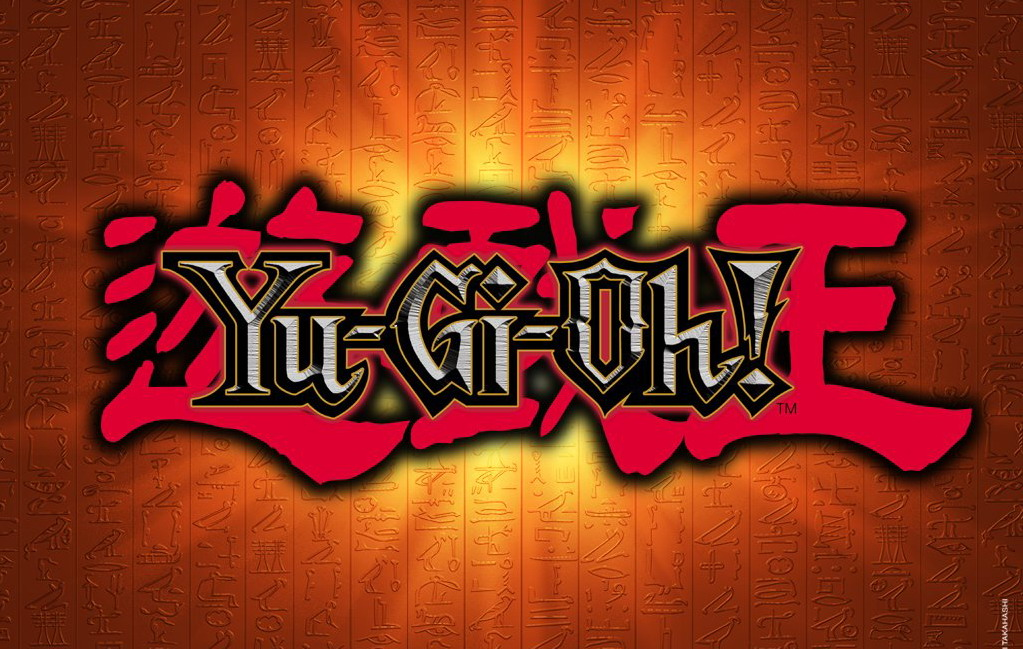
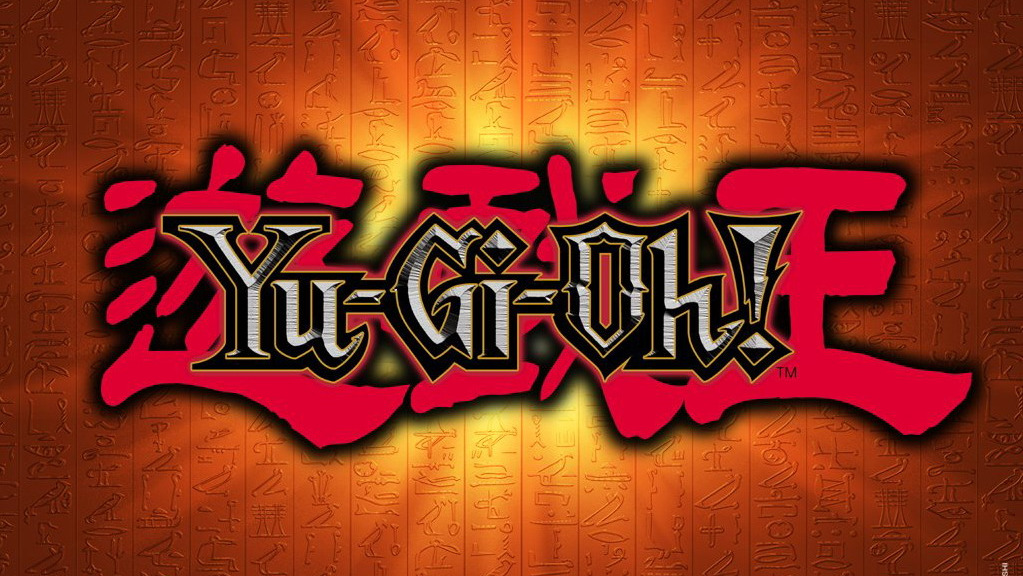
feat: Create game setting window and it's graphical elements

diff --git a/Yugioh/sources/mainmenu.cpp b/Yugioh/sources/mainmenu.cpp
@@ -8,7 +8,8 @@ MainMenu::MainMenu(QWidget *parent) :
     ui(new Ui::MainMenu)
 {
     ui->setupUi(this);
-    QPixmap bkgnd("/home/darija/Desktop/projekat1000/09-yugioh-develop/Yugioh/resources/yugioh1.jpg");
+    QPixmap bkgnd(":/resources/yugioh1.jpg");
+    //bkgnd.devicePixelRatioFScale();
     bkgnd = bkgnd.scaled(this->size(), Qt::IgnoreAspectRatio);
     QPalette palette;
     palette.setBrush(QPalette::Window, bkgnd);
@@ -28,5 +29,19 @@ void MainMenu::on_pushButton_clicked()
     game = new Game(player1,player2);
     //Game game(player1, player2);
     game->show();
+}
+
+
+void MainMenu::on_pushButton_4_clicked()
+{
+    close();
+}
+
+
+void MainMenu::on_pushButton_5_clicked()
+{
+    gameSettings = new GameSettings();
+    gameSettings->show();
+
 }
 

diff --git a/Yugioh/headers/mainmenu.h b/Yugioh/headers/mainmenu.h
@@ -3,6 +3,7 @@
 
 #include <QMainWindow>
 #include "headers/Game.h"
+#include "headers/GameSettings.h"
 
 namespace Ui {
 class MainMenu;
@@ -19,9 +20,14 @@ public:
 private slots:
     void on_pushButton_clicked();
 
+    void on_pushButton_4_clicked();
+
+    void on_pushButton_5_clicked();
+
 private:
     Ui::MainMenu *ui;
     Game *game;
+    GameSettings *gameSettings;
 };
 
 #endif // MAINMENU_H

diff --git a/Yugioh/sources/main.cpp b/Yugioh/sources/main.cpp
@@ -20,7 +20,6 @@ int main(int argc,char **argv)
 
   MainMenu m;
   m.show();
-
   // FIXME: This loop can't exist, because we need app.exec() (Qt's event loop)
 //  game.start();
 //    game.show(); //this is to turn on the graphics, need to decide if we use Game as pointer
